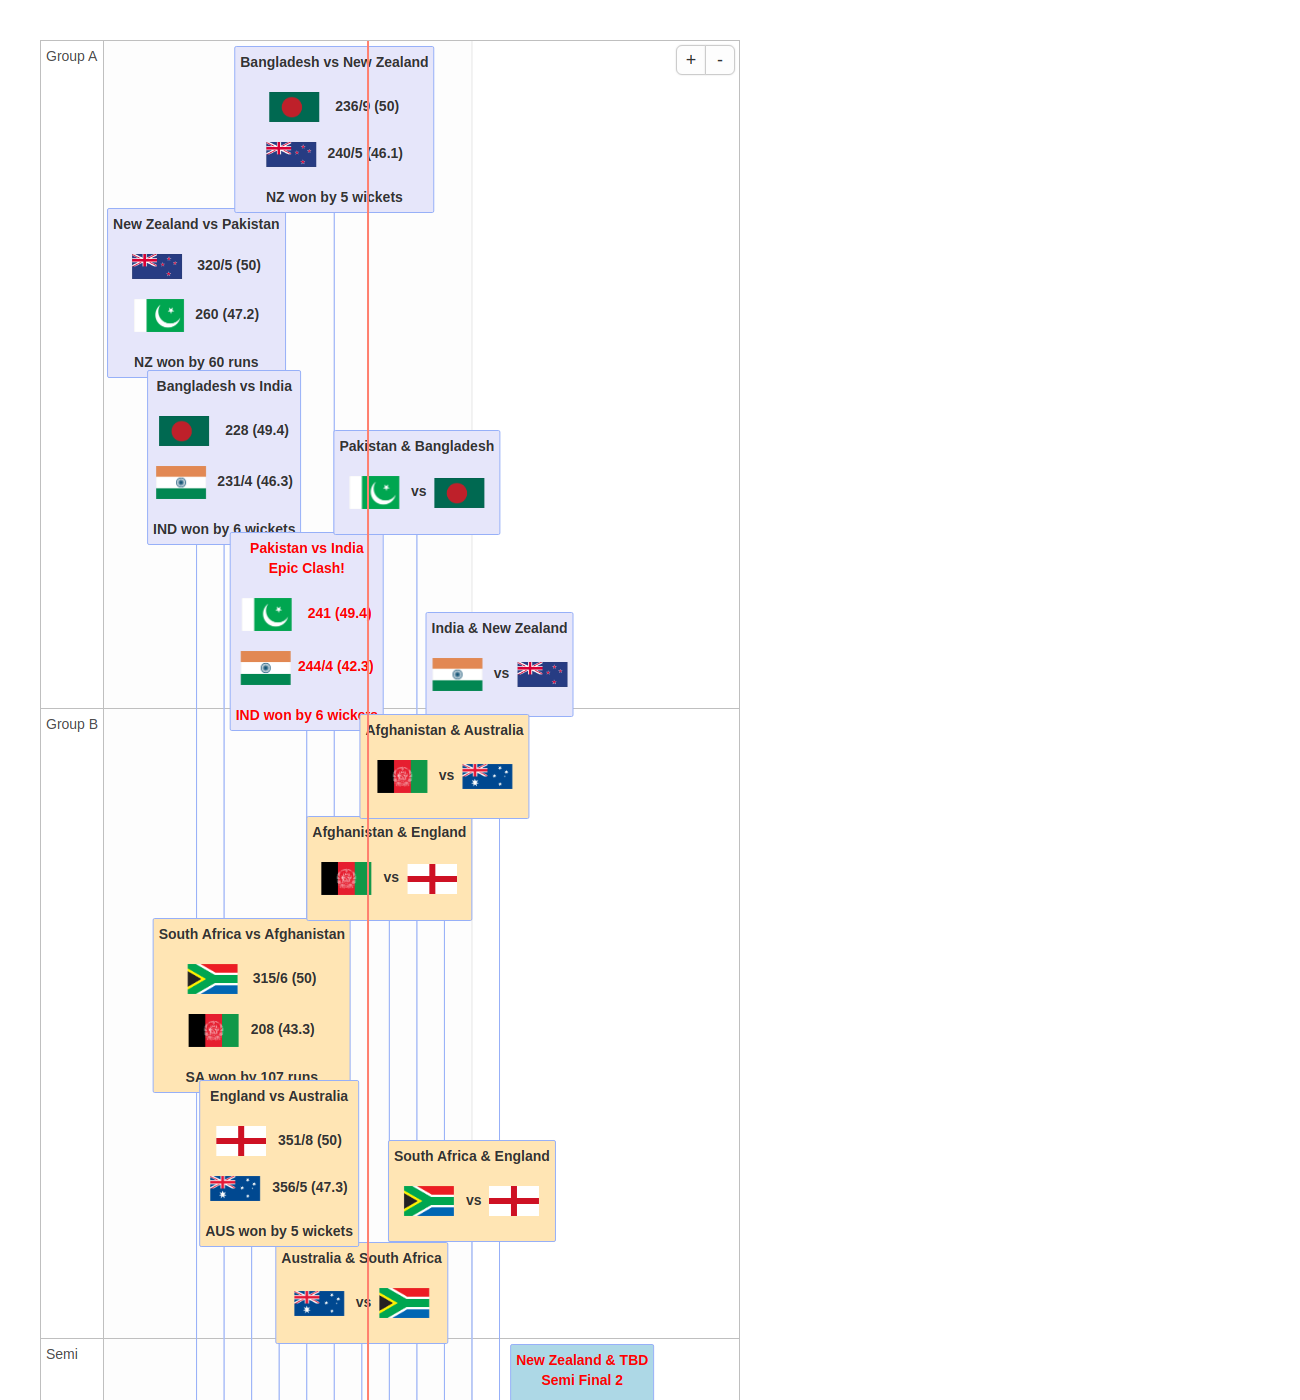
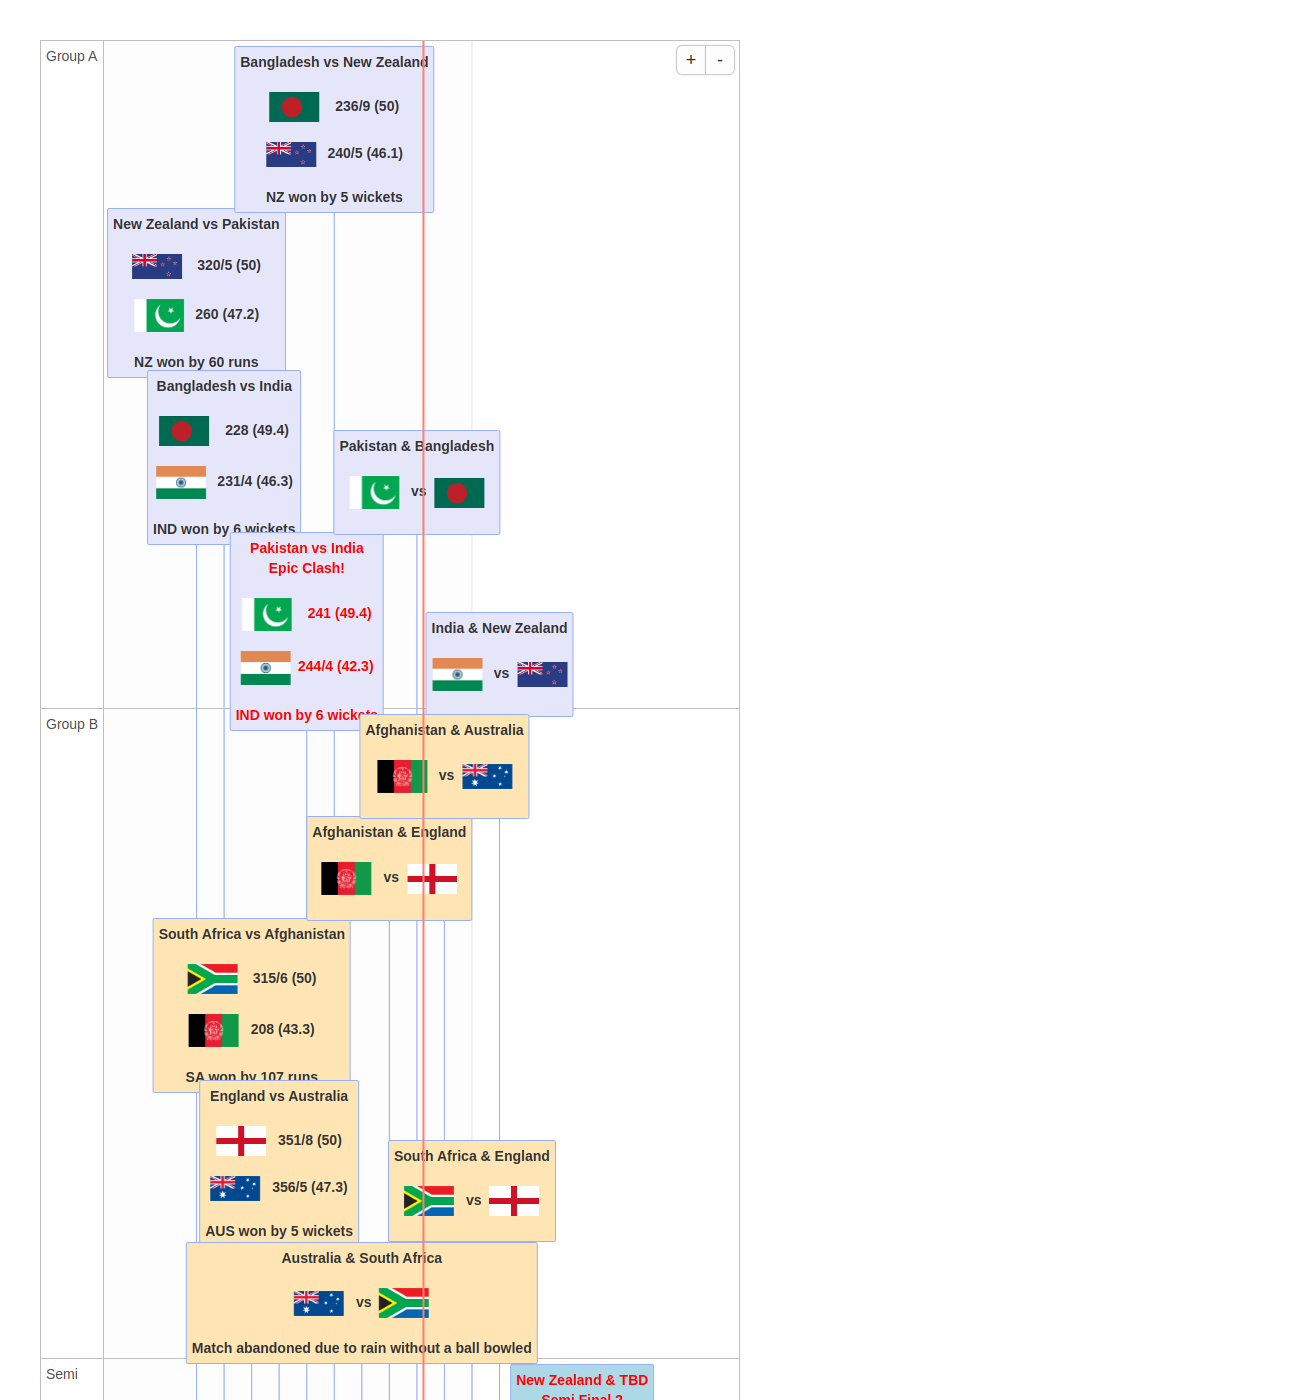
Data updated

Changed region(s): [[0.1231, 0.86, 0.5231, 1.0], [0.0308, 0.9521, 0.0615, 0.9829]]

diff --git a/timeline.html b/timeline.html
@@ -1284,14 +1284,14 @@ pre:not([class]) { background-color: white }</style>
 </head>
 <body style="background-color: white;">
 <div id="htmlwidget_container">
-  <div id="htmlwidget-5c454c2da1513bf4920a" class="timevis html-widget" style="width:100%;height:500px;">
+  <div id="htmlwidget-7470c5753d45a6914b82" class="timevis html-widget" style="width:100%;height:500px;">
     <div class="btn-group zoom-menu">
       <button type="button" class="btn btn-default btn-lg zoom-in" title="Zoom in">+</button>
       <button type="button" class="btn btn-default btn-lg zoom-out" title="Zoom out">-</button>
     </div>
   </div>
 </div>
-<script type="application/json" data-for="htmlwidget-5c454c2da1513bf4920a">{"x":{"items":[{"id":"1","content":"New Zealand vs Pakistan<br><br>\n              <img src='https://www.worldometers.info/img/flags/nz-flag.gif' width='50'> &nbsp;&nbsp; 320/5 (50) <br><br>\n              <img src='https://www.worldometers.info/img/flags/pk-flag.gif' width='50'>&nbsp;&nbsp; 260 (47.2)<br><br> \nNZ won by 60 runs","start":"2025-02-19","style":"color: #333333;background:#E6E6FA;font-weight: bold;","group":"1","groups":"League Matches"},{"id":"2","content":"Bangladesh vs India<br><br>\n              <img src='https://www.worldometers.info/img/flags/bg-flag.gif' width='50'> &nbsp;&nbsp; 228 (49.4)<br><br>              \n<img src='https://www.worldometers.info/img/flags/in-flag.gif' width='50'>&nbsp;&nbsp;  231/4 (46.3) <br><br>\nIND won by 6 wickets","start":"2025-02-20","style":"color: #333333;background:#E6E6FA;font-weight: bold;","group":"1","groups":"League Matches"},{"id":"3","content":"South Africa vs Afghanistan<br><br>\n              <img src='https://www.worldometers.info/img/flags/sf-flag.gif' width='50'> &nbsp;&nbsp; 315/6 (50)<br><br>              \n<img src='https://www.worldometers.info/img/flags/af-flag.gif' width='50'>&nbsp;&nbsp;  208 (43.3) <br><br>\nSA won by 107 runs","start":"2025-02-21","style":"color: #333333;background:#FFE5B4;font-weight: bold;","group":"2","groups":"League Matches"},{"id":"4","content":"England vs Australia<br><br>\n<img src='https://upload.wikimedia.org/wikipedia/en/b/be/Flag_of_England.svg' width='50'>&nbsp;&nbsp; 351/8 (50) <br><br>\n              <img src='https://www.worldometers.info/img/flags/as-flag.gif' width='50'> &nbsp;&nbsp;356/5 (47.3) <br><br>\n               AUS won by 5 wickets","start":"2025-02-22","style":"color: #333333;background:#FFE5B4;font-weight: bold;","group":"2","groups":"League Matches"},{"id":"5","content":"Pakistan vs India<br>Epic Clash!<br><br>\n              <img src='https://www.worldometers.info/img/flags/pk-flag.gif' width='50'> &nbsp;&nbsp; 241 (49.4)<br><br>\n              <img src='https://www.worldometers.info/img/flags/in-flag.gif' width='50'>&nbsp;&nbsp;244/4 (42.3) <br><br>\nIND won by 6 wickets","start":"2025-02-23","style":"color: red;background:#E6E6FA;font-weight: bold;","group":"1","groups":"League Matches"},{"id":"6","content":"Bangladesh vs New Zealand<br><br>\n              <img src='https://www.worldometers.info/img/flags/bg-flag.gif' width='50'> &nbsp;&nbsp; 236/9 (50)<br><br>\n              <img src='https://www.worldometers.info/img/flags/nz-flag.gif' width='50'>&nbsp;&nbsp; 240/5 (46.1) <br><br>\nNZ won by 5 wickets","start":"2025-02-24","style":"color: #333333;background:#E6E6FA;font-weight: bold;","group":"1","groups":"League Matches"},{"id":"7","content":"Australia & South Africa<br><br>\n              <img src='https://www.worldometers.info/img/flags/as-flag.gif' width='50'> &nbsp;&nbsp;vs&nbsp;\n              <img src='https://www.worldometers.info/img/flags/sf-flag.gif' width='50'><br><br>","start":"2025-02-25","style":"color: #333333;background:#FFE5B4;font-weight: bold;","group":"2","groups":"League Matches"},{"id":"8","content":"Afghanistan & England<br><br>\n              <img src='https://www.worldometers.info/img/flags/af-flag.gif' width='50'> &nbsp;&nbsp;vs&nbsp;\n              <img src='https://upload.wikimedia.org/wikipedia/en/b/be/Flag_of_England.svg' width='50'><br><br>","start":"2025-02-26","style":"color: #333333;background:#FFE5B4;font-weight: bold;","group":"2","groups":"League Matches"},{"id":"9","content":"Pakistan & Bangladesh<br><br>\n              <img src='https://www.worldometers.info/img/flags/pk-flag.gif' width='50'> &nbsp;&nbsp;vs&nbsp;\n              <img src='https://www.worldometers.info/img/flags/bg-flag.gif' width='50'><br><br>","start":"2025-02-27","style":"color: #333333;background:#E6E6FA;font-weight: bold;","group":"1","groups":"League Matches"},{"id":"10","content":"Afghanistan & Australia<br><br>\n              <img src='https://www.worldometers.info/img/flags/af-flag.gif' width='50'> &nbsp;&nbsp;vs&nbsp;\n              <img src='https://www.worldometers.info/img/flags/as-flag.gif' width='50'><br><br>","start":"2025-02-28","style":"color: #333333;background:#FFE5B4;font-weight: bold;","group":"2","groups":"League Matches"},{"id":"11","content":"South Africa & England<br><br>\n              <img src='https://www.worldometers.info/img/flags/sf-flag.gif' width='50'> &nbsp;&nbsp;vs&nbsp;\n              <img src='https://upload.wikimedia.org/wikipedia/en/b/be/Flag_of_England.svg' width='50'><br><br>","start":"2025-03-01","style":"color: #333333;background:#FFE5B4;font-weight: bold;","group":"2","groups":"League Matches"},{"id":"12","content":"India & New Zealand<br><br>\n              <img src='https://www.worldometers.info/img/flags/in-flag.gif' width='50'> &nbsp;&nbsp;vs&nbsp;\n              <img src='https://www.worldometers.info/img/flags/nz-flag.gif' width='50'><br><br>","start":"2025-03-02","style":"color: #333333;background:#E6E6FA;font-weight: bold;","group":"1","groups":"League Matches"},{"id":"13","content":"India & TBD<br>Semi Final 1<br><br>\n              <img src='https://www.worldometers.info/img/flags/in-flag.gif' width='50'> &nbsp;&nbsp;vs<br><br>\n              <img src='https://www.worldometers.info/img/flags/tbd-flag.gif' width='50'>&nbsp;&nbsp;vs<br><br>","start":"2025-03-04","style":"color: red;background:#ADD8E6;font-weight: bold;","group":"3","groups":"Semi"},{"id":"14","content":"New Zealand & TBD<br>Semi Final 2<br><br>\n              <img src='https://www.worldometers.info/img/flags/nz-flag.gif' width='50'> &nbsp;&nbsp;vs<br><br>\n              <img src='https://www.worldometers.info/img/flags/tbd-flag.gif' width='50'>&nbsp;&nbsp;vs<br><br>","start":"2025-03-05","style":"color: red;background:#ADD8E6;font-weight: bold;","group":"3","groups":"Semi"},{"id":"15","content":"TBD & TBD<br>Final<br><br>\n              <img src='https://www.worldometers.info/img/flags/tbd-flag.gif' width='50'> &nbsp;&nbsp;vs<br><br>\n              <img src='https://www.worldometers.info/img/flags/tbd-flag.gif' width='50'>&nbsp;&nbsp;vs<br><br>","start":"2025-03-09","style":"color: red;background:#F5FFFA;font-weight: bold;","group":"4","groups":"final"}],"groups":[{"group":"1","content":"Group A","id":"1"},{"group":"2","content":"Group B","id":"2"},{"group":"3","content":"Semi","id":"3"},{"group":"4","content":"final","id":"4"}],"showZoom":true,"zoomFactor":0.5,"fit":true,"options":{"format":"{ minorLabels: { minute: 'h:mma', hour: 'ha' }}"},"height":null,"timezone":null,"api":[]},"evals":["options.format"],"jsHooks":[]}</script>
-<script type="application/htmlwidget-sizing" data-for="htmlwidget-5c454c2da1513bf4920a">{"viewer":{"width":"100%","height":350,"padding":15,"fill":false},"browser":{"width":"100%","height":500,"padding":40,"fill":false}}</script>
+<script type="application/json" data-for="htmlwidget-7470c5753d45a6914b82">{"x":{"items":[{"id":"1","content":"New Zealand vs Pakistan<br><br>\n              <img src='https://www.worldometers.info/img/flags/nz-flag.gif' width='50'> &nbsp;&nbsp; 320/5 (50) <br><br>\n              <img src='https://www.worldometers.info/img/flags/pk-flag.gif' width='50'>&nbsp;&nbsp; 260 (47.2)<br><br> \nNZ won by 60 runs","start":"2025-02-19","style":"color: #333333;background:#E6E6FA;font-weight: bold;","group":"1","groups":"League Matches"},{"id":"2","content":"Bangladesh vs India<br><br>\n              <img src='https://www.worldometers.info/img/flags/bg-flag.gif' width='50'> &nbsp;&nbsp; 228 (49.4)<br><br>              \n<img src='https://www.worldometers.info/img/flags/in-flag.gif' width='50'>&nbsp;&nbsp;  231/4 (46.3) <br><br>\nIND won by 6 wickets","start":"2025-02-20","style":"color: #333333;background:#E6E6FA;font-weight: bold;","group":"1","groups":"League Matches"},{"id":"3","content":"South Africa vs Afghanistan<br><br>\n              <img src='https://www.worldometers.info/img/flags/sf-flag.gif' width='50'> &nbsp;&nbsp; 315/6 (50)<br><br>              \n<img src='https://www.worldometers.info/img/flags/af-flag.gif' width='50'>&nbsp;&nbsp;  208 (43.3) <br><br>\nSA won by 107 runs","start":"2025-02-21","style":"color: #333333;background:#FFE5B4;font-weight: bold;","group":"2","groups":"League Matches"},{"id":"4","content":"England vs Australia<br><br>\n<img src='https://upload.wikimedia.org/wikipedia/en/b/be/Flag_of_England.svg' width='50'>&nbsp;&nbsp; 351/8 (50) <br><br>\n              <img src='https://www.worldometers.info/img/flags/as-flag.gif' width='50'> &nbsp;&nbsp;356/5 (47.3) <br><br>\n               AUS won by 5 wickets","start":"2025-02-22","style":"color: #333333;background:#FFE5B4;font-weight: bold;","group":"2","groups":"League Matches"},{"id":"5","content":"Pakistan vs India<br>Epic Clash!<br><br>\n              <img src='https://www.worldometers.info/img/flags/pk-flag.gif' width='50'> &nbsp;&nbsp; 241 (49.4)<br><br>\n              <img src='https://www.worldometers.info/img/flags/in-flag.gif' width='50'>&nbsp;&nbsp;244/4 (42.3) <br><br>\nIND won by 6 wickets","start":"2025-02-23","style":"color: red;background:#E6E6FA;font-weight: bold;","group":"1","groups":"League Matches"},{"id":"6","content":"Bangladesh vs New Zealand<br><br>\n              <img src='https://www.worldometers.info/img/flags/bg-flag.gif' width='50'> &nbsp;&nbsp; 236/9 (50)<br><br>\n              <img src='https://www.worldometers.info/img/flags/nz-flag.gif' width='50'>&nbsp;&nbsp; 240/5 (46.1) <br><br>\nNZ won by 5 wickets","start":"2025-02-24","style":"color: #333333;background:#E6E6FA;font-weight: bold;","group":"1","groups":"League Matches"},{"id":"7","content":"Australia & South Africa<br><br>\n              <img src='https://www.worldometers.info/img/flags/as-flag.gif' width='50'> &nbsp;&nbsp;vs&nbsp;\n              <img src='https://www.worldometers.info/img/flags/sf-flag.gif' width='50'><br><br>\nMatch abandoned due to rain without a ball bowled","start":"2025-02-25","style":"color: #333333;background:#FFE5B4;font-weight: bold;","group":"2","groups":"League Matches"},{"id":"8","content":"Afghanistan & England<br><br>\n              <img src='https://www.worldometers.info/img/flags/af-flag.gif' width='50'> &nbsp;&nbsp;vs&nbsp;\n              <img src='https://upload.wikimedia.org/wikipedia/en/b/be/Flag_of_England.svg' width='50'><br><br>","start":"2025-02-26","style":"color: #333333;background:#FFE5B4;font-weight: bold;","group":"2","groups":"League Matches"},{"id":"9","content":"Pakistan & Bangladesh<br><br>\n              <img src='https://www.worldometers.info/img/flags/pk-flag.gif' width='50'> &nbsp;&nbsp;vs&nbsp;\n              <img src='https://www.worldometers.info/img/flags/bg-flag.gif' width='50'><br><br>","start":"2025-02-27","style":"color: #333333;background:#E6E6FA;font-weight: bold;","group":"1","groups":"League Matches"},{"id":"10","content":"Afghanistan & Australia<br><br>\n              <img src='https://www.worldometers.info/img/flags/af-flag.gif' width='50'> &nbsp;&nbsp;vs&nbsp;\n              <img src='https://www.worldometers.info/img/flags/as-flag.gif' width='50'><br><br>","start":"2025-02-28","style":"color: #333333;background:#FFE5B4;font-weight: bold;","group":"2","groups":"League Matches"},{"id":"11","content":"South Africa & England<br><br>\n              <img src='https://www.worldometers.info/img/flags/sf-flag.gif' width='50'> &nbsp;&nbsp;vs&nbsp;\n              <img src='https://upload.wikimedia.org/wikipedia/en/b/be/Flag_of_England.svg' width='50'><br><br>","start":"2025-03-01","style":"color: #333333;background:#FFE5B4;font-weight: bold;","group":"2","groups":"League Matches"},{"id":"12","content":"India & New Zealand<br><br>\n              <img src='https://www.worldometers.info/img/flags/in-flag.gif' width='50'> &nbsp;&nbsp;vs&nbsp;\n              <img src='https://www.worldometers.info/img/flags/nz-flag.gif' width='50'><br><br>","start":"2025-03-02","style":"color: #333333;background:#E6E6FA;font-weight: bold;","group":"1","groups":"League Matches"},{"id":"13","content":"India & TBD<br>Semi Final 1<br><br>\n              <img src='https://www.worldometers.info/img/flags/in-flag.gif' width='50'> &nbsp;&nbsp;vs<br><br>\n              <img src='https://www.worldometers.info/img/flags/tbd-flag.gif' width='50'>&nbsp;&nbsp;<br><br>","start":"2025-03-04","style":"color: red;background:#ADD8E6;font-weight: bold;","group":"3","groups":"Semi"},{"id":"14","content":"New Zealand & TBD<br>Semi Final 2<br><br>\n              <img src='https://www.worldometers.info/img/flags/nz-flag.gif' width='50'> &nbsp;&nbsp;vs<br><br>\n              <img src='https://www.worldometers.info/img/flags/tbd-flag.gif' width='50'>&nbsp;&nbsp;<br><br>","start":"2025-03-05","style":"color: red;background:#ADD8E6;font-weight: bold;","group":"3","groups":"Semi"},{"id":"15","content":"TBD & TBD<br>Final<br><br>\n              <img src='https://www.worldometers.info/img/flags/tbd-flag.gif' width='50'> &nbsp;&nbsp;vs<br><br>\n              <img src='https://www.worldometers.info/img/flags/tbd-flag.gif' width='50'>&nbsp;&nbsp;<br><br>","start":"2025-03-09","style":"color: red;background:#F5FFFA;font-weight: bold;","group":"4","groups":"final"}],"groups":[{"group":"1","content":"Group A","id":"1"},{"group":"2","content":"Group B","id":"2"},{"group":"3","content":"Semi","id":"3"},{"group":"4","content":"final","id":"4"}],"showZoom":true,"zoomFactor":0.5,"fit":true,"options":{"format":"{ minorLabels: { minute: 'h:mma', hour: 'ha' }}"},"height":null,"timezone":null,"api":[]},"evals":["options.format"],"jsHooks":[]}</script>
+<script type="application/htmlwidget-sizing" data-for="htmlwidget-7470c5753d45a6914b82">{"viewer":{"width":"100%","height":350,"padding":15,"fill":false},"browser":{"width":"100%","height":500,"padding":40,"fill":false}}</script>
 </body>
 </html>
